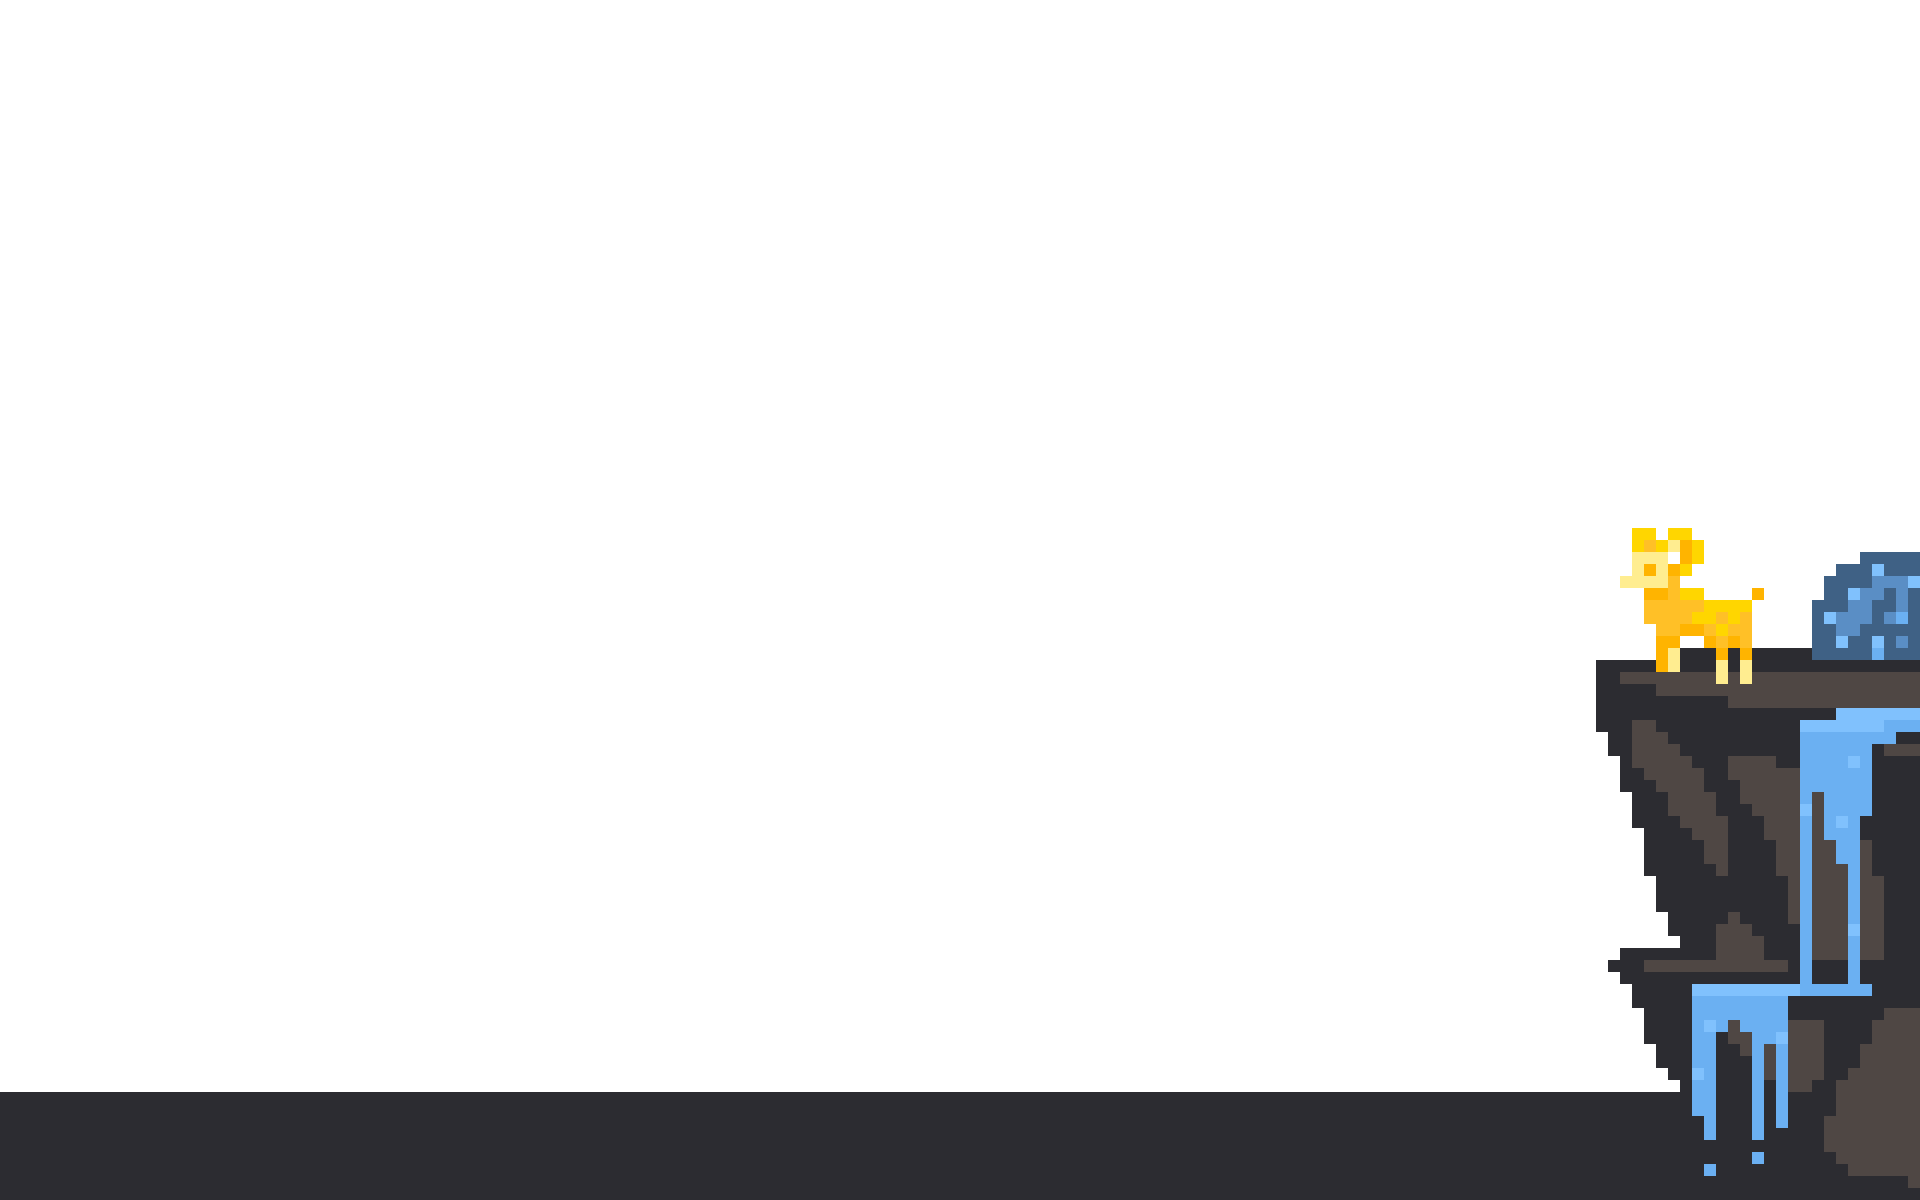
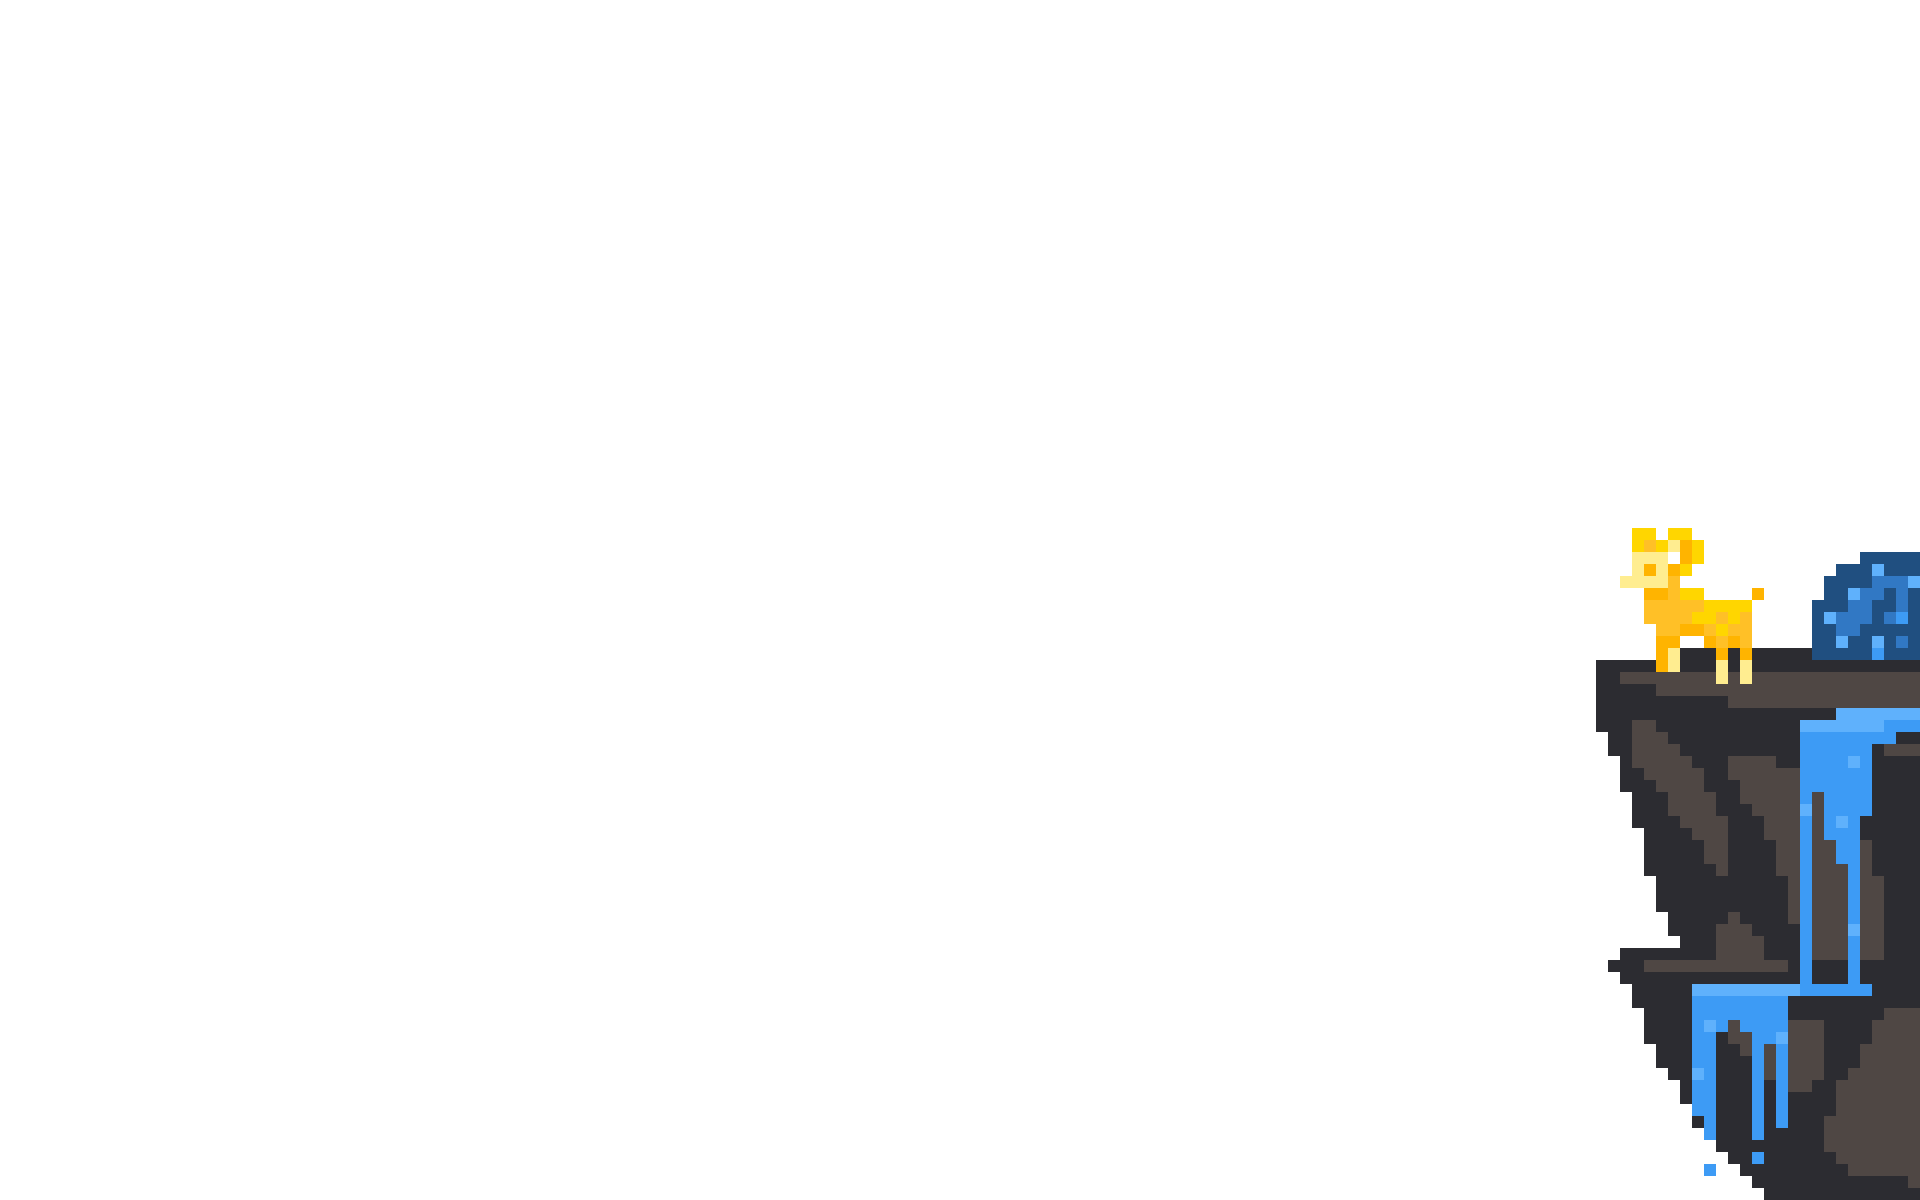
Design tweaks (#29)
* Saturate all the blues

* Change bg and add navbar shadow

* Change some borders and spacing

* Add new flattened image

Changed region(s): [[0.0, 0.5858, 1.0, 1.0], [0.9375, 0.4625, 1.0, 0.555]]

diff --git a/index.html b/index.html
@@ -332,7 +332,7 @@
         </div>
 
         <!-- Sponsors -->
-        <div class="shell" id="sponsor">
+        <div class="shell gray" id="sponsor">
             <div class="container">
 
                 <div class="sponsor subsection row">
@@ -409,6 +409,10 @@
                             #mc_embed_signup form{
                                 padding: 0px;
                             }
+                            #mc-embedded-subscribe{
+                                font-family: "geo-sans-light", sans-serif;
+                            }
+
                             /* Add your own MailChimp form style overrides in your site stylesheet or in this style block.
                                We recommend moving this block and the preceding CSS link to the HEAD of your HTML file. */
                         </style>
@@ -418,23 +422,23 @@
                             
                         <!-- <div class="indicates-required"><span class="asterisk">*</span> indicates required</div> -->
                         <div class="row">
-                            <div class="col-sm-12">
-                                <div class="mc-field-group">
-                                    <label for="mce-EMAIL">Email Address  <span class="asterisk">*</span>
-                                </label>
-                                    <input type="email" value="" name="EMAIL" class="required email" id="mce-EMAIL">
-                                </div>
-                            </div>
                             <div class="col-sm-6">
                                 <div class="mc-field-group">
-                                    <label for="mce-FNAME">First Name </label>
+                                    <label for="mce-FNAME">First Name  &nbsp;</label>
                                     <input type="text" value="" name="FNAME" class="" id="mce-FNAME">
                                 </div>
                             </div>
                             <div class="col-sm-6">
                                 <div class="mc-field-group">
-                                    <label for="mce-LNAME">Last Name </label>
+                                    <label for="mce-LNAME">Last Name  &nbsp;</label>
                                     <input type="text" value="" name="LNAME" class="" id="mce-LNAME">
+                                </div>
+                            </div>                            
+                            <div class="col-sm-12">
+                                <div class="mc-field-group">
+                                    <label for="mce-EMAIL">Email Address  <span class="asterisk">*</span> &nbsp;
+                                </label>
+                                    <input type="email" value="" name="EMAIL" class="required email" id="mce-EMAIL">
                                 </div>
                             </div>
                         </div>

diff --git a/css/index.css b/css/index.css
@@ -4,7 +4,7 @@
   src: url("../fonts/geo_sans_light/GeosansLight.ttf");
 }
 
-/*greys: (#2C2C31, #4F4744); blues: ( #3F6185, #5A8EC5, #6BB0F2, #80C1FD); yellows: (#ffc027, #ffd600)*/
+/*greys: (#2C2C31, #4F4744); blues: ( #204F80, #3178C4, #3D9BF5, #5FB1FC); yellows: (#ffc027, #ffd600)*/
 
 html {
   height: 100%;
@@ -29,7 +29,7 @@ html {
 }
 /* Section styles */
 .hacknc-body {
-  background-color: #2C2C31;
+  background-color: #5FB1FC;
   height: 100%;
   overflow-x: hidden;
 }
@@ -81,8 +81,8 @@ html {
 #navbar {
   overflow: hidden;
   background-color: transparent;
-  padding-top: 10px;
   z-index: 100;
+  background-color: #2C2C31;
 }
 .navi {
   list-style-type: none;
@@ -132,10 +132,10 @@ html {
 }
 .apply .btn {
   background-color:#ffd600;
-  color: #3F6185;
+  color: #204F80;
   font-family: 'geo-sans-light', sans-serif;
   font-size: 35px;
-  border: 0px; 
+  border-bottom: 3px solid #ffc027; 
   transition-duration: 0.3s;
   -webkit-transition-duration: 0.3s;  
   width: 100%;
@@ -153,7 +153,7 @@ html {
   z-index: 10;
 }
 .shell.blue {
-  background-color: #3F6185;
+  background-color: #3178C4;
 }
 .shell.gray {
   background-color: #2C2C31;
@@ -185,7 +185,7 @@ html {
   padding-bottom: 15px;
 }
 .stay-tuned {
-  /*border: 10px solid #3F6185;*/
+  /*border: 10px solid #204F80;*/
 }
 .social-media ul {
   margin-top: 60px;
@@ -232,7 +232,7 @@ html {
   margin-top: 15px;
 }
 .buttons button:hover {
-  color: #3F6185;
+  color: #204F80;
 }
 .mobile-app .phone {
   text-align: center;
@@ -262,7 +262,7 @@ html {
   color: #ffd600;
 }
 .round-border {
-  border: 10px solid #3F6185;
+  border: 4px solid #204F80;
   border-radius: 4px;
 }
 #map {
@@ -300,6 +300,9 @@ html {
   #header-container {
       /*height: 400px;*/
   }
+  .hacknc-body {
+    background-color: #2C2C31;
+  }
   .apply {
     padding-top: 220px;
     position: relative;
@@ -326,6 +329,9 @@ html {
   }
   #navbar {
     top: 460px;
+    background-color: transparent;
+    border-bottom: none;
+    padding-top: 0px;
   }
   .footer .navi{
     display: none;
@@ -333,16 +339,19 @@ html {
 }
 @media (min-width: 768px){
   .stay-tuned {
-    /*border: 10px solid #3F6185;*/
+    /*border: 10px solid #204F80;*/
     margin-top: 0px;
   }
   #header-container {
       /*height: 600px;*/
   }
+  .hacknc-body {
+    background-color: #5FB1FC;
+  }
   .apply {
     /*padding-top: 23%;*/
     padding-top: 0px;
-    top: 40%;
+    top: 42%;
     position: fixed;
   }
   .tape {
@@ -362,6 +371,9 @@ html {
   #navbar {
     /*bottom: 0px;*/
     top: initial;
+    background-color: #2C2C31;
+    border-bottom: 3px solid #272727;
+    padding-top: 10px;
   }
   .footer .navi{
     display: block;

diff --git a/css/faq.css b/css/faq.css
@@ -5,7 +5,7 @@
 
 .faq {
     background: none;
-    border: 10px solid #3F6185;
+    border: 4px solid #204F80;
     color: #ffffff;    
     height: 100%;
     cursor: pointer;
@@ -14,17 +14,17 @@
 .faq-body {
     display: none;
     font-size: 16px;
-    /*border-top: 5px solid #6BB0F2;*/
+    /*border-top: 5px solid #3D9BF5;*/
 }
 .panel-primary > .panel-heading {
-    background: #5A8EC5;
+    background: #3178C4;
     border-bottom: none;
-    color: #2C2C31;
+    color: #fff;
   transition-duration: 0.3s;
   -webkit-transition-duration: 0.3s; 
 }
 .panel-primary > .panel-heading:hover {
-    background: #6BB0F2;
+    background: #3D9BF5;
 }
 
 a {
